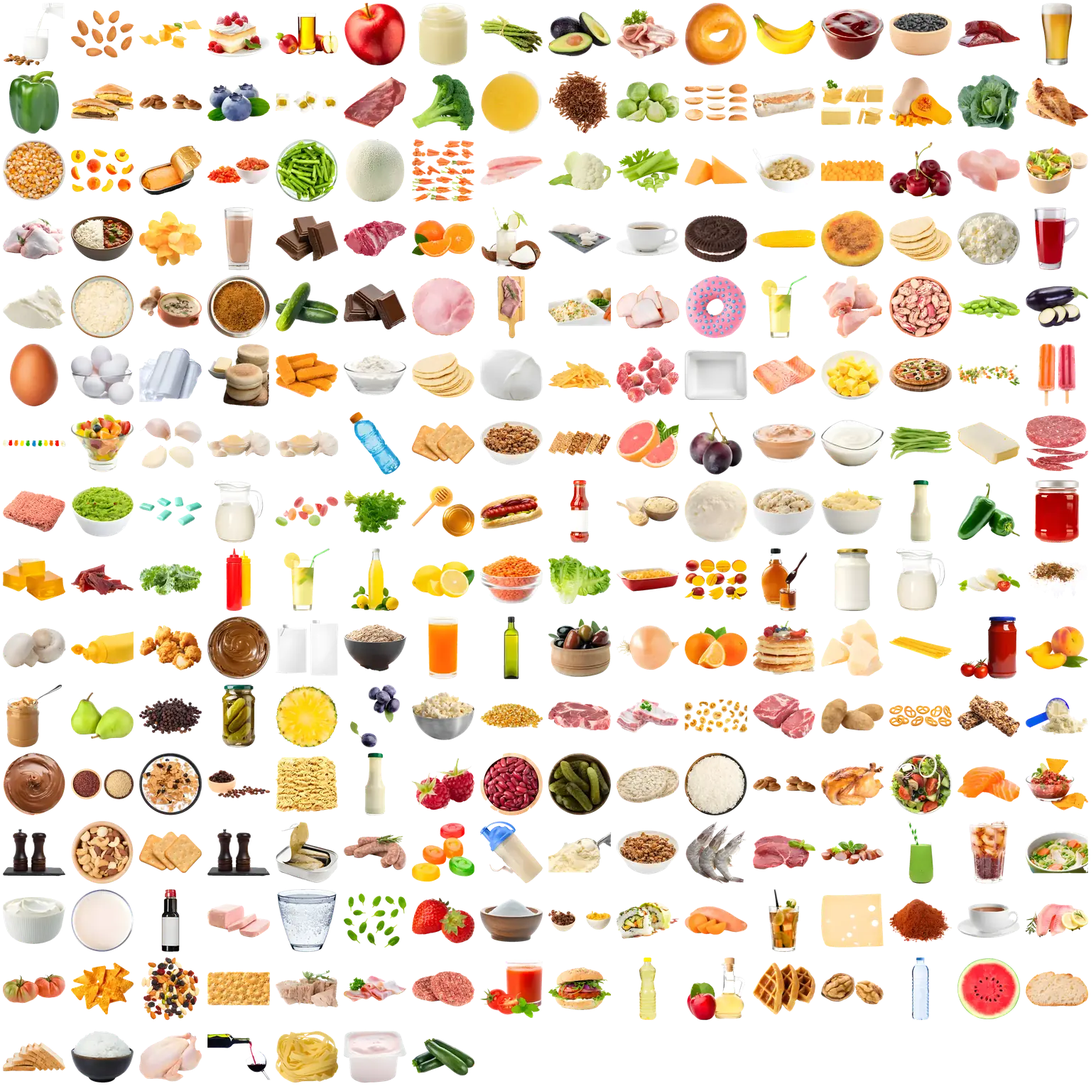
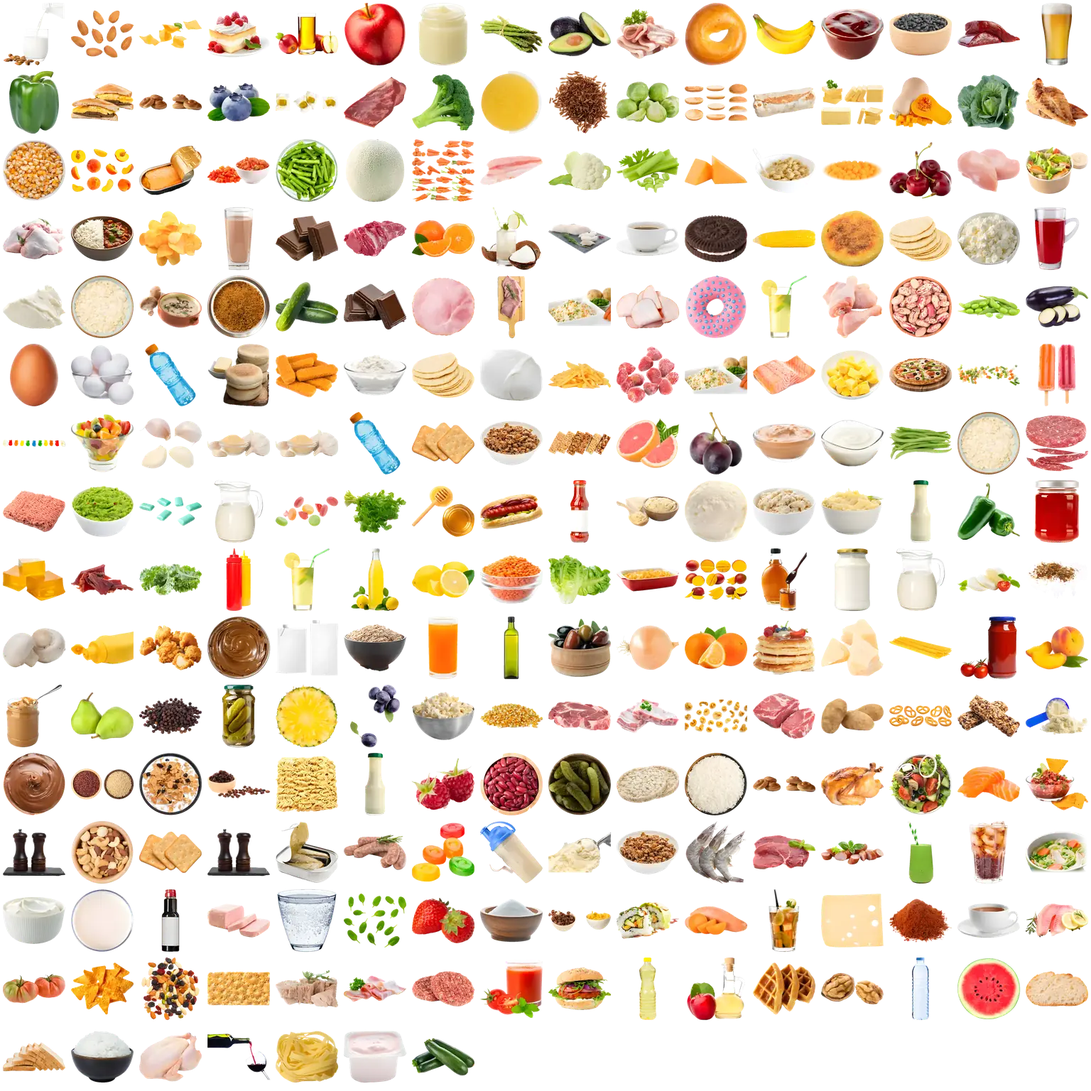
Pictures: soften the clipped soup bowl and cheese-puff strip; better grits, frozen dinner, energy drink
Mrs. Dash now shares the seasoning picture, so salty Creole seasoning offers it as the swap.

UNGATED (Codex review gate suspended)

Claude-Session: https://claude.ai/code/session_019am7j4huQfKjt5Ju6YVUKz

diff --git a/index.html b/index.html
@@ -805,7 +805,7 @@ const EMOJI_CHOICES = ["🍎","🍌","🍊","🍓","🫐","🍇","🍉","🍑","
 function foodEmoji(f){ return f.emoji || EMOJI[f.id] || (AISLES[f.cat] || {}).emoji || "🛒"; }
 function aisleClass(cat){ return (AISLES[cat] || {}).cls || "a-pantry"; }
 // Built-in product photos (Adobe Stock, licensed) — food id -> tile key in img/
-const PHOTO = {"bananas":"bananas","apples":"apples","oranges":"oranges","clementines":"clementines","strawberries":"strawberries","blueberries":"blueberries","raspberries":"raspberries","grapes":"grapes","watermelon":"watermelon","cantaloupe":"cantaloupe","peaches":"peaches","pears":"pears","plums":"plums","cherries":"cherries","mango":"mango","pineapple":"pineapple","grapefruit":"grapefruit","avocado":"avocado","tomatoes":"tomatoes","potatoes":"potatoes","sweetpot":"sweetpot","butternut":"butternut","onions":"onions","garlic":"garlic","carrots":"carrots","celery":"celery","broccoli":"broccoli","frozenbroc":"broccoli","cauliflower":"cauliflower","cabbage":"cabbage","brussels":"brussels","spinach":"spinach","kale":"kale","lettuce":"lettuce","cucumber":"cucumber","bellpep":"bellpep","jalapeno":"jalapeno","greenbeans":"greenbeans","zucchini":"zucchini","eggplant":"eggplant","mushrooms":"mushrooms","corn":"corn","asparagus":"asparagus","lemons":"lemons","herbs":"herbs","fruittray":"fruittray","saladkit":"saladkit","chickenbreast":"chickenbreast","chickenthigh":"chickenthigh","drumsticks":"drumsticks","wholechicken":"wholechicken","groundturkey":"groundturkey","groundbeef90":"groundbeef","groundbeef80":"groundbeef","sirloin":"sirloin","chuckroast":"chuckroast","brisket":"brisket","porkchop":"porkchop","porktender":"porktender","porkribs":"porkribs","bacon":"bacon","turkeybacon":"turkeybacon","hotdogs":"hotdogs","sausage":"sausage","smokedsausage":"smokedsausage","salmon":"salmon","tilapia":"tilapia","cod":"cod","catfish":"catfish","shrimp":"shrimp","tuna":"tuna","tunans":"tuna","cannedsalmon":"cannedsalmon","sardines":"sardines","beefliver":"beefliver","eggs":"eggs","eggwhites":"eggwhites","milk2":"milk","milkwhole":"milk","milkskim":"milk","lactaid":"milk","almondmilk":"almondmilk","oatmilk":"oatmilk","soymilk":"soymilk","greekyogurt":"greekyogurt","yogurtflav":"yogurtflav","cottage":"cottage","cheddar":"cheddar","swiss":"swiss","mozz":"mozz","freshmozz":"freshmozz","parmesan":"parmesan","american":"american","creamcheese":"creamcheese","butter":"butter","butterus":"butter","sourcream":"sourcream","halfhalf":"halfhalf","icecream":"icecream","sherbet":"sherbet","fruitbars":"fruitbars","sfpops":"fruitbars","pudding":"pudding","jello":"jello","jellosf":"jello","whitebread":"whitebread","wheatbread":"wheatbread","lowsodbread":"wheatbread","flourtort":"flourtort","corntort":"corntort","buns":"buns","rolls":"rolls","biscuits":"biscuits","bagels":"bagels","engmuffin":"engmuffin","cornbread":"cornbread","oats":"oats","instantoat":"instantoat","granola":"granola","cheerios":"cheerios","shreddedwheat":"shreddedwheat","raisinbran":"raisinbran","sugarcereal":"sugarcereal","brownrice":"brownrice","whiterice":"whiterice","pasta":"pasta","wwpasta":"wwpasta","quinoa":"quinoa","grits":"grits","creamofwheat":"creamofwheat","saltines":"saltines","saltinesus":"saltines","triscuit":"triscuit","ricecakes":"ricecakes","pancakemix":"pancakemix","flour":"flour","cannedbeans":"beans","beansns":"beans","refried":"refried","drybeans":"drybeans","lentils":"lentils","cannedveg":"cannedveg","cannedvegns":"cannedveg","cannedcorn":"cannedcorn","cannedtom":"cannedtom","cannedtomns":"cannedtom","pastasauce":"pastasauce","pastasaucens":"pastasauce","cannedfruit":"cannedfruit","applesauce":"applesauce","raisins":"raisins","peanutbutter":"peanutbutter","pbunsalted":"peanutbutter","almonds":"almonds","saltednuts":"saltednuts","walnuts":"walnuts","broth":"broth","brothls":"broth","soup":"soup","souphr":"soup","soupls":"soup","creamsoup":"creamsoup","ramen":"ramen","macncheese":"macncheese","ricemix":"ricemix","instantpotato":"instantpotato","chili":"chili","cannedchicken":"cannedchicken","spam":"spam","gravy":"gravy","oliveoil":"oliveoil","vegoil":"vegoil","honey":"honey","maplesyrup":"maplesyrup","sugar":"sugar","jam":"jam","proteinpowder":"proteinpowder","frozenveg":"frozenveg","frozenvegsauce":"frozenveg","frozenberries":"frozenberries","frozenfruit":"frozenfruit","frozendinner":"frozendinner","frozendinnerlite":"frozendinner","frozenpizza":"frozenpizza","nuggets":"nuggets","fishsticks":"fishsticks","frozenfish":"frozenfish","burritos":"burritos","waffles":"waffles","fries":"fries","edamame":"edamame","turkeyburger":"turkeyburger","veggieburger":"veggieburger","bfastsandwich":"bfastsandwich","water":"water","sparklingwater":"sparklingwater","clubsoda":"sparklingwater","soda":"soda","dietsoda":"soda","oj":"oj","applejuice":"applejuice","cranjuice":"cranjuice","v8":"v8","v8ls":"v8","coffee":"coffee","tea":"tea","herbaltea":"tea","sweettea":"sweettea","lemonade":"lemonade","drinkmix":"drinkmix","gatorade":"gatorade","gatoradezero":"gatorade","pedialyte":"gatorade","coconutwater":"coconutwater","smoothie":"smoothie","chocmilk":"chocmilk","ensure":"shake","premierprotein":"shake","glucerna":"shake","nepro":"shake","energydrink":"energydrink","beer":"beer","wine":"wine","chips":"chips","chipsus":"chips","tortillachips":"tortillachips","pretzels":"pretzels","pretzelsus":"pretzels","popcornmw":"popcorn","popcornkernels":"popcornkernels","cheesepuffs":"cheesepuffs","porkrinds":"porkrinds","jerky":"jerky","trailmix":"trailmix","granolabar":"granolabar","proteinbar":"proteinbar","cookies":"cookies","grahams":"grahams","donuts":"donuts","angelfood":"angelfood","chocolatebar":"chocolatebar","darkchoc":"darkchoc","nutella":"nutella","fruitsnacks":"fruitsnacks","hardcandy":"hardcandy","sfcandy":"sfcandy","gum":"gum","rotisserie":"rotisserie","deliturkey":"deliturkey","deliturkeyns":"deliturkey","deliham":"deliham","deliroastbeef":"deliroastbeef","chickensalad":"chickensalad","delisalad":"delisalad","hummus":"hummus","guac":"guac","sushi":"sushi","salt":"salt","saltsub":"saltsub","mrsdash":"mrsdash","garlicpowder":"garlicpowder","pepper":"pepper","garlicsalt":"garlicsalt","creole":"creole","creolens":"creole","tacoseasoning":"tacoseasoning","tacoseasoningsf":"tacoseasoning","bouillon":"bouillon","bouillonsf":"bouillon","vinegar":"vinegar","lemonjuice":"lemonjuice","hotsauce":"hotsauce","ketchup":"ketchup","ketchupns":"ketchup","mustard":"mustard","mayo":"mayo","relish":"relish","soysauce":"soysauce","soysaucels":"soysauce","salsa":"salsa","bbqsauce":"bbqsauce","ranch":"ranch","italiandressing":"italiandressing","pickles":"pickles","olives":"olives"};
+const PHOTO = {"bananas":"bananas","apples":"apples","oranges":"oranges","clementines":"clementines","strawberries":"strawberries","blueberries":"blueberries","raspberries":"raspberries","grapes":"grapes","watermelon":"watermelon","cantaloupe":"cantaloupe","peaches":"peaches","pears":"pears","plums":"plums","cherries":"cherries","mango":"mango","pineapple":"pineapple","grapefruit":"grapefruit","avocado":"avocado","tomatoes":"tomatoes","potatoes":"potatoes","sweetpot":"sweetpot","butternut":"butternut","onions":"onions","garlic":"garlic","carrots":"carrots","celery":"celery","broccoli":"broccoli","frozenbroc":"broccoli","cauliflower":"cauliflower","cabbage":"cabbage","brussels":"brussels","spinach":"spinach","kale":"kale","lettuce":"lettuce","cucumber":"cucumber","bellpep":"bellpep","jalapeno":"jalapeno","greenbeans":"greenbeans","zucchini":"zucchini","eggplant":"eggplant","mushrooms":"mushrooms","corn":"corn","asparagus":"asparagus","lemons":"lemons","herbs":"herbs","fruittray":"fruittray","saladkit":"saladkit","chickenbreast":"chickenbreast","chickenthigh":"chickenthigh","drumsticks":"drumsticks","wholechicken":"wholechicken","groundturkey":"groundturkey","groundbeef90":"groundbeef","groundbeef80":"groundbeef","sirloin":"sirloin","chuckroast":"chuckroast","brisket":"brisket","porkchop":"porkchop","porktender":"porktender","porkribs":"porkribs","bacon":"bacon","turkeybacon":"turkeybacon","hotdogs":"hotdogs","sausage":"sausage","smokedsausage":"smokedsausage","salmon":"salmon","tilapia":"tilapia","cod":"cod","catfish":"catfish","shrimp":"shrimp","tuna":"tuna","tunans":"tuna","cannedsalmon":"cannedsalmon","sardines":"sardines","beefliver":"beefliver","eggs":"eggs","eggwhites":"eggwhites","milk2":"milk","milkwhole":"milk","milkskim":"milk","lactaid":"milk","almondmilk":"almondmilk","oatmilk":"oatmilk","soymilk":"soymilk","greekyogurt":"greekyogurt","yogurtflav":"yogurtflav","cottage":"cottage","cheddar":"cheddar","swiss":"swiss","mozz":"mozz","freshmozz":"freshmozz","parmesan":"parmesan","american":"american","creamcheese":"creamcheese","butter":"butter","butterus":"butter","sourcream":"sourcream","halfhalf":"halfhalf","icecream":"icecream","sherbet":"sherbet","fruitbars":"fruitbars","sfpops":"fruitbars","pudding":"pudding","jello":"jello","jellosf":"jello","whitebread":"whitebread","wheatbread":"wheatbread","lowsodbread":"wheatbread","flourtort":"flourtort","corntort":"corntort","buns":"buns","rolls":"rolls","biscuits":"biscuits","bagels":"bagels","engmuffin":"engmuffin","cornbread":"cornbread","oats":"oats","instantoat":"instantoat","granola":"granola","cheerios":"cheerios","shreddedwheat":"shreddedwheat","raisinbran":"raisinbran","sugarcereal":"sugarcereal","brownrice":"brownrice","whiterice":"whiterice","pasta":"pasta","wwpasta":"wwpasta","quinoa":"quinoa","grits":"grits","creamofwheat":"creamofwheat","saltines":"saltines","saltinesus":"saltines","triscuit":"triscuit","ricecakes":"ricecakes","pancakemix":"pancakemix","flour":"flour","cannedbeans":"beans","beansns":"beans","refried":"refried","drybeans":"drybeans","lentils":"lentils","cannedveg":"cannedveg","cannedvegns":"cannedveg","cannedcorn":"cannedcorn","cannedtom":"cannedtom","cannedtomns":"cannedtom","pastasauce":"pastasauce","pastasaucens":"pastasauce","cannedfruit":"cannedfruit","applesauce":"applesauce","raisins":"raisins","peanutbutter":"peanutbutter","pbunsalted":"peanutbutter","almonds":"almonds","saltednuts":"saltednuts","walnuts":"walnuts","broth":"broth","brothls":"broth","soup":"soup","souphr":"soup","soupls":"soup","creamsoup":"creamsoup","ramen":"ramen","macncheese":"macncheese","ricemix":"ricemix","instantpotato":"instantpotato","chili":"chili","cannedchicken":"cannedchicken","spam":"spam","gravy":"gravy","oliveoil":"oliveoil","vegoil":"vegoil","honey":"honey","maplesyrup":"maplesyrup","sugar":"sugar","jam":"jam","proteinpowder":"proteinpowder","frozenveg":"frozenveg","frozenvegsauce":"frozenveg","frozenberries":"frozenberries","frozenfruit":"frozenfruit","frozendinner":"frozendinner","frozendinnerlite":"frozendinner","frozenpizza":"frozenpizza","nuggets":"nuggets","fishsticks":"fishsticks","frozenfish":"frozenfish","burritos":"burritos","waffles":"waffles","fries":"fries","edamame":"edamame","turkeyburger":"turkeyburger","veggieburger":"veggieburger","bfastsandwich":"bfastsandwich","water":"water","sparklingwater":"sparklingwater","clubsoda":"sparklingwater","soda":"soda","dietsoda":"soda","oj":"oj","applejuice":"applejuice","cranjuice":"cranjuice","v8":"v8","v8ls":"v8","coffee":"coffee","tea":"tea","herbaltea":"tea","sweettea":"sweettea","lemonade":"lemonade","drinkmix":"drinkmix","gatorade":"gatorade","gatoradezero":"gatorade","pedialyte":"gatorade","coconutwater":"coconutwater","smoothie":"smoothie","chocmilk":"chocmilk","ensure":"shake","premierprotein":"shake","glucerna":"shake","nepro":"shake","energydrink":"energydrink","beer":"beer","wine":"wine","chips":"chips","chipsus":"chips","tortillachips":"tortillachips","pretzels":"pretzels","pretzelsus":"pretzels","popcornmw":"popcorn","popcornkernels":"popcornkernels","cheesepuffs":"cheesepuffs","porkrinds":"porkrinds","jerky":"jerky","trailmix":"trailmix","granolabar":"granolabar","proteinbar":"proteinbar","cookies":"cookies","grahams":"grahams","donuts":"donuts","angelfood":"angelfood","chocolatebar":"chocolatebar","darkchoc":"darkchoc","nutella":"nutella","fruitsnacks":"fruitsnacks","hardcandy":"hardcandy","sfcandy":"sfcandy","gum":"gum","rotisserie":"rotisserie","deliturkey":"deliturkey","deliturkeyns":"deliturkey","deliham":"deliham","deliroastbeef":"deliroastbeef","chickensalad":"chickensalad","delisalad":"delisalad","hummus":"hummus","guac":"guac","sushi":"sushi","salt":"salt","saltsub":"saltsub","mrsdash":"creole","garlicpowder":"garlicpowder","pepper":"pepper","garlicsalt":"garlicsalt","creole":"creole","creolens":"creole","tacoseasoning":"tacoseasoning","tacoseasoningsf":"tacoseasoning","bouillon":"bouillon","bouillonsf":"bouillon","vinegar":"vinegar","lemonjuice":"lemonjuice","hotsauce":"hotsauce","ketchup":"ketchup","ketchupns":"ketchup","mustard":"mustard","mayo":"mayo","relish":"relish","soysauce":"soysauce","soysaucels":"soysauce","salsa":"salsa","bbqsauce":"bbqsauce","ranch":"ranch","italiandressing":"italiandressing","pickles":"pickles","olives":"olives"};
 const PHOTO_BASE = "img/";
 // Short aisle names: the aisle row, headlines and back links.
 const SHORT = {"Produce":"Produce","Meat & Seafood":"Meat","Dairy & Eggs":"Dairy","Bread & Grains":"Bread","Pantry & Canned":"Pantry","Frozen":"Frozen","Beverages":"Drinks","Snacks & Sweets":"Snacks","Deli & Prepared":"Deli","Condiments & Seasonings":"Condiments"};
@@ -895,7 +895,7 @@ function fitStickers(root){
 // Where each product sits inside its square cut-out, in 256ths of the image: [left, top, right, bottom].
 // Products are transparent cut-outs (Upscayl 4x + Apple Vision), 512 px each in img/, and all of them
 // together in img/atlas.webp: 96 px cells, 16 per row, in the order of ATLAS_KEYS.
-const PHOTO_BOX = {"almondmilk":[13,10,242,246],"almonds":[10,39,246,216],"american":[10,74,246,182],"angelfood":[10,40,246,215],"applejuice":[10,49,246,207],"apples":[13,10,242,246],"applesauce":[36,10,220,246],"asparagus":[10,56,246,200],"avocado":[10,44,246,211],"bacon":[10,34,246,222],"bagels":[12,10,244,246],"bananas":[10,52,246,204],"bbqsauce":[10,31,246,224],"beans":[10,46,246,209],"beefliver":[10,77,246,178],"beer":[70,10,185,246],"bellpep":[34,10,222,246],"bfastsandwich":[10,56,246,200],"biscuits":[10,98,246,158],"blueberries":[10,56,246,200],"bouillon":[10,85,246,170],"brisket":[10,32,246,224],"broccoli":[10,22,246,234],"broth":[14,10,242,246],"brownrice":[13,10,243,246],"brussels":[10,50,246,206],"buns":[10,58,246,198],"burritos":[10,71,246,185],"butter":[10,42,246,214],"butternut":[10,34,246,222],"cabbage":[10,24,246,232],"cannedchicken":[10,36,246,220],"cannedcorn":[10,14,246,242],"cannedfruit":[10,46,246,209],"cannedsalmon":[10,35,246,220],"cannedtom":[10,76,246,179],"cannedveg":[11,10,244,246],"cantaloupe":[18,10,238,246],"carrots":[10,11,246,245],"catfish":[10,72,246,183],"cauliflower":[10,54,246,202],"celery":[10,44,246,212],"cheddar":[10,70,246,185],"cheerios":[10,44,246,212],"cheesepuffs":[10,88,246,168],"cherries":[10,22,246,234],"chickenbreast":[10,46,246,210],"chickensalad":[10,39,246,216],"chickenthigh":[10,50,246,206],"chili":[10,43,246,213],"chips":[10,24,246,232],"chocmilk":[74,10,182,246],"chocolatebar":[10,42,246,214],"chuckroast":[10,60,246,196],"clementines":[10,58,246,198],"coconutwater":[15,10,240,246],"cod":[10,72,246,184],"coffee":[10,63,246,193],"cookies":[10,39,246,217],"corn":[10,94,246,162],"cornbread":[10,22,246,234],"corntort":[10,42,246,213],"cottage":[10,28,246,228],"cranjuice":[43,10,212,246],"creamcheese":[10,45,246,211],"creamofwheat":[10,10,246,246],"creamsoup":[10,49,246,207],"creole":[10,10,246,246],"cucumber":[10,34,246,221],"darkchoc":[10,41,246,214],"deliham":[10,18,246,237],"deliroastbeef":[76,10,180,246],"delisalad":[10,56,246,200],"deliturkey":[10,46,246,210],"donuts":[14,10,242,246],"drinkmix":[42,10,214,246],"drumsticks":[16,10,240,246],"drybeans":[10,12,246,244],"edamame":[10,82,246,174],"eggplant":[10,50,246,206],"eggs":[36,10,220,246],"eggwhites":[10,16,246,240],"energydrink":[10,26,246,230],"engmuffin":[13,10,243,246],"fishsticks":[10,44,246,212],"flour":[10,52,246,204],"flourtort":[10,42,246,213],"freshmozz":[10,30,246,225],"fries":[10,76,246,180],"frozenberries":[10,21,246,234],"frozendinner":[10,34,246,222],"frozenfish":[10,54,246,202],"frozenfruit":[10,34,246,221],"frozenpizza":[10,63,246,192],"frozenveg":[10,88,246,168],"fruitbars":[56,10,200,246],"fruitsnacks":[10,114,246,142],"fruittray":[10,20,246,236],"garlic":[10,33,246,223],"garlicpowder":[10,76,246,180],"garlicsalt":[10,76,246,180],"gatorade":[32,10,223,246],"grahams":[10,50,246,206],"granola":[10,45,246,210],"granolabar":[10,80,246,175],"grapefruit":[10,34,246,221],"grapes":[28,10,228,246],"gravy":[10,56,246,200],"greekyogurt":[10,40,246,216],"greenbeans":[10,66,246,190],"grits":[10,48,246,208],"groundbeef":[10,22,246,234],"groundturkey":[10,50,246,206],"guac":[10,32,246,224],"gum":[10,74,246,182],"halfhalf":[36,10,220,246],"hardcandy":[10,72,246,184],"herbs":[10,46,246,210],"honey":[10,32,246,224],"hotdogs":[10,62,246,194],"hotsauce":[92,10,164,246],"hummus":[10,71,246,184],"icecream":[10,12,246,244],"instantoat":[10,38,246,218],"instantpotato":[10,40,246,216],"italiandressing":[90,10,166,246],"jalapeno":[10,20,246,235],"jam":[43,10,212,246],"jello":[10,48,246,208],"jerky":[10,70,246,186],"kale":[10,67,246,188],"ketchup":[81,10,174,246],"lemonade":[42,10,214,246],"lemonjuice":[38,10,218,246],"lemons":[10,60,246,196],"lentils":[10,36,246,220],"lettuce":[10,36,246,220],"macncheese":[10,83,246,172],"mango":[10,52,246,204],"maplesyrup":[42,10,214,246],"mayo":[60,10,195,246],"milk":[36,10,220,246],"mozz":[10,82,246,174],"mrsdash":[10,56,246,200],"mushrooms":[10,54,246,202],"mustard":[10,66,246,189],"nuggets":[10,43,246,212],"nutella":[10,11,246,245],"oatmilk":[10,24,246,232],"oats":[10,39,246,217],"oj":[72,10,184,246],"oliveoil":[100,10,156,246],"olives":[10,18,246,238],"onions":[10,44,246,212],"oranges":[10,48,246,208],"pancakemix":[10,26,246,230],"parmesan":[10,20,246,236],"pasta":[10,84,246,172],"pastasauce":[22,10,234,246],"peaches":[10,46,246,210],"peanutbutter":[24,10,232,246],"pears":[10,39,246,217],"pepper":[10,60,246,196],"pickles":[65,10,190,246],"pineapple":[10,10,246,246],"plums":[34,10,222,246],"popcorn":[10,38,246,218],"popcornkernels":[10,80,246,176],"porkchop":[10,74,246,182],"porkribs":[10,64,246,192],"porkrinds":[10,66,246,190],"porktender":[10,42,246,214],"potatoes":[10,62,246,194],"pretzels":[10,88,246,168],"proteinbar":[10,48,246,208],"proteinpowder":[10,58,246,198],"pudding":[12,10,244,246],"quinoa":[10,70,246,186],"raisinbran":[10,11,246,244],"raisins":[10,74,246,182],"ramen":[10,22,246,233],"ranch":[90,10,166,246],"raspberries":[10,30,246,225],"refried":[10,10,246,246],"relish":[10,12,246,244],"ricecakes":[10,57,246,199],"ricemix":[10,10,246,246],"rolls":[10,98,246,158],"rotisserie":[10,46,246,209],"saladkit":[10,13,246,242],"salmon":[10,61,246,195],"salsa":[10,30,246,226],"salt":[10,38,246,217],"saltednuts":[12,10,244,246],"saltines":[10,50,246,206],"saltsub":[10,38,246,217],"sardines":[10,14,246,242],"sausage":[10,62,246,194],"sfcandy":[10,17,246,238],"shake":[10,12,246,244],"sherbet":[10,51,246,204],"shreddedwheat":[10,45,246,210],"shrimp":[14,10,242,246],"sirloin":[10,64,246,192],"smokedsausage":[10,82,246,174],"smoothie":[79,10,176,246],"soda":[55,10,201,246],"soup":[10,48,246,207],"sourcream":[10,40,246,216],"soymilk":[10,10,246,246],"soysauce":[94,10,162,246],"spam":[10,64,246,192],"sparklingwater":[16,10,239,246],"spinach":[10,26,246,230],"strawberries":[10,42,246,214],"sugar":[10,46,246,209],"sugarcereal":[10,87,246,168],"sushi":[10,58,246,197],"sweetpot":[10,74,246,182],"sweettea":[70,10,186,246],"swiss":[10,27,246,229],"tacoseasoning":[10,46,246,210],"tea":[10,63,246,193],"tilapia":[10,64,246,192],"tomatoes":[10,73,246,182],"tortillachips":[10,30,246,226],"trailmix":[19,10,237,246],"triscuit":[10,64,246,191],"tuna":[10,58,246,198],"turkeybacon":[10,78,246,178],"turkeyburger":[10,62,246,194],"v8":[10,18,246,238],"veggieburger":[10,48,246,208],"vegoil":[96,10,160,246],"vinegar":[18,10,237,246],"waffles":[10,30,246,226],"walnuts":[10,68,246,188],"water":[96,10,160,246],"watermelon":[10,13,246,243],"wheatbread":[10,62,246,194],"whitebread":[10,74,246,182],"whiterice":[10,31,246,225],"wholechicken":[10,36,246,220],"wine":[10,40,246,215],"wwpasta":[10,30,246,226],"yogurtflav":[10,30,246,226],"zucchini":[10,57,246,199]};
+const PHOTO_BOX = {"almondmilk":[13,10,242,246],"almonds":[10,39,246,216],"american":[10,74,246,182],"angelfood":[10,40,246,215],"applejuice":[10,49,246,207],"apples":[13,10,242,246],"applesauce":[36,10,220,246],"asparagus":[10,56,246,200],"avocado":[10,44,246,211],"bacon":[10,34,246,222],"bagels":[12,10,244,246],"bananas":[10,52,246,204],"bbqsauce":[10,31,246,224],"beans":[10,46,246,209],"beefliver":[10,77,246,178],"beer":[70,10,185,246],"bellpep":[34,10,222,246],"bfastsandwich":[10,56,246,200],"biscuits":[10,98,246,158],"blueberries":[10,56,246,200],"bouillon":[10,85,246,170],"brisket":[10,32,246,224],"broccoli":[10,22,246,234],"broth":[14,10,242,246],"brownrice":[13,10,243,246],"brussels":[10,50,246,206],"buns":[10,58,246,198],"burritos":[10,71,246,185],"butter":[10,42,246,214],"butternut":[10,34,246,222],"cabbage":[10,24,246,232],"cannedchicken":[10,36,246,220],"cannedcorn":[10,14,246,242],"cannedfruit":[10,46,246,209],"cannedsalmon":[10,35,246,220],"cannedtom":[10,76,246,179],"cannedveg":[11,10,244,246],"cantaloupe":[18,10,238,246],"carrots":[10,11,246,245],"catfish":[10,72,246,183],"cauliflower":[10,54,246,202],"celery":[10,44,246,212],"cheddar":[10,70,246,185],"cheerios":[10,44,246,212],"cheesepuffs":[16,89,239,167],"cherries":[10,22,246,234],"chickenbreast":[10,46,246,210],"chickensalad":[10,39,246,216],"chickenthigh":[10,50,246,206],"chili":[10,43,246,213],"chips":[10,24,246,232],"chocmilk":[74,10,182,246],"chocolatebar":[10,42,246,214],"chuckroast":[10,60,246,196],"clementines":[10,58,246,198],"coconutwater":[15,10,240,246],"cod":[10,72,246,184],"coffee":[10,63,246,193],"cookies":[10,39,246,217],"corn":[10,94,246,162],"cornbread":[10,22,246,234],"corntort":[10,42,246,213],"cottage":[10,28,246,228],"cranjuice":[43,10,212,246],"creamcheese":[10,45,246,211],"creamofwheat":[10,10,246,246],"creamsoup":[10,49,246,207],"creole":[10,10,246,246],"cucumber":[10,34,246,221],"darkchoc":[10,41,246,214],"deliham":[10,18,246,237],"deliroastbeef":[76,10,180,246],"delisalad":[10,56,246,200],"deliturkey":[10,46,246,210],"donuts":[14,10,242,246],"drinkmix":[42,10,214,246],"drumsticks":[16,10,240,246],"drybeans":[10,12,246,244],"edamame":[10,82,246,174],"eggplant":[10,50,246,206],"eggs":[36,10,220,246],"eggwhites":[10,16,246,240],"energydrink":[32,10,223,246],"engmuffin":[13,10,243,246],"fishsticks":[10,44,246,212],"flour":[10,52,246,204],"flourtort":[10,42,246,213],"freshmozz":[10,30,246,225],"fries":[10,76,246,180],"frozenberries":[10,21,246,234],"frozendinner":[10,55,246,200],"frozenfish":[10,54,246,202],"frozenfruit":[10,34,246,221],"frozenpizza":[10,63,246,192],"frozenveg":[10,88,246,168],"fruitbars":[56,10,200,246],"fruitsnacks":[10,114,246,142],"fruittray":[10,20,246,236],"garlic":[10,33,246,223],"garlicpowder":[10,76,246,180],"garlicsalt":[10,76,246,180],"gatorade":[32,10,223,246],"grahams":[10,50,246,206],"granola":[10,45,246,210],"granolabar":[10,80,246,175],"grapefruit":[10,34,246,221],"grapes":[28,10,228,246],"gravy":[10,56,246,200],"greekyogurt":[10,40,246,216],"greenbeans":[10,66,246,190],"grits":[10,10,246,246],"groundbeef":[10,22,246,234],"groundturkey":[10,50,246,206],"guac":[10,32,246,224],"gum":[10,74,246,182],"halfhalf":[36,10,220,246],"hardcandy":[10,72,246,184],"herbs":[10,46,246,210],"honey":[10,32,246,224],"hotdogs":[10,62,246,194],"hotsauce":[92,10,164,246],"hummus":[10,71,246,184],"icecream":[10,12,246,244],"instantoat":[10,38,246,218],"instantpotato":[10,40,246,216],"italiandressing":[90,10,166,246],"jalapeno":[10,20,246,235],"jam":[43,10,212,246],"jello":[10,48,246,208],"jerky":[10,70,246,186],"kale":[10,67,246,188],"ketchup":[81,10,174,246],"lemonade":[42,10,214,246],"lemonjuice":[38,10,218,246],"lemons":[10,60,246,196],"lentils":[10,36,246,220],"lettuce":[10,36,246,220],"macncheese":[10,83,246,172],"mango":[10,52,246,204],"maplesyrup":[42,10,214,246],"mayo":[60,10,195,246],"milk":[36,10,220,246],"mozz":[10,82,246,174],"mrsdash":[10,56,246,200],"mushrooms":[10,54,246,202],"mustard":[10,66,246,189],"nuggets":[10,43,246,212],"nutella":[10,11,246,245],"oatmilk":[10,24,246,232],"oats":[10,39,246,217],"oj":[72,10,184,246],"oliveoil":[100,10,156,246],"olives":[10,18,246,238],"onions":[10,44,246,212],"oranges":[10,48,246,208],"pancakemix":[10,26,246,230],"parmesan":[10,20,246,236],"pasta":[10,84,246,172],"pastasauce":[22,10,234,246],"peaches":[10,46,246,210],"peanutbutter":[24,10,232,246],"pears":[10,39,246,217],"pepper":[10,60,246,196],"pickles":[65,10,190,246],"pineapple":[10,10,246,246],"plums":[34,10,222,246],"popcorn":[10,38,246,218],"popcornkernels":[10,80,246,176],"porkchop":[10,74,246,182],"porkribs":[10,64,246,192],"porkrinds":[10,66,246,190],"porktender":[10,42,246,214],"potatoes":[10,62,246,194],"pretzels":[10,88,246,168],"proteinbar":[10,48,246,208],"proteinpowder":[10,58,246,198],"pudding":[12,10,244,246],"quinoa":[10,70,246,186],"raisinbran":[10,11,246,244],"raisins":[10,74,246,182],"ramen":[10,22,246,233],"ranch":[90,10,166,246],"raspberries":[10,30,246,225],"refried":[10,10,246,246],"relish":[10,12,246,244],"ricecakes":[10,57,246,199],"ricemix":[10,10,246,246],"rolls":[10,98,246,158],"rotisserie":[10,46,246,209],"saladkit":[10,13,246,242],"salmon":[10,61,246,195],"salsa":[10,30,246,226],"salt":[10,38,246,217],"saltednuts":[12,10,244,246],"saltines":[10,50,246,206],"saltsub":[10,38,246,217],"sardines":[10,14,246,242],"sausage":[10,62,246,194],"sfcandy":[10,17,246,238],"shake":[10,12,246,244],"sherbet":[10,51,246,204],"shreddedwheat":[10,45,246,210],"shrimp":[14,10,242,246],"sirloin":[10,64,246,192],"smokedsausage":[10,82,246,174],"smoothie":[79,10,176,246],"soda":[55,10,201,246],"soup":[10,48,237,202],"sourcream":[10,40,246,216],"soymilk":[10,10,246,246],"soysauce":[94,10,162,246],"spam":[10,64,246,192],"sparklingwater":[16,10,239,246],"spinach":[10,26,246,230],"strawberries":[10,42,246,214],"sugar":[10,46,246,209],"sugarcereal":[10,87,246,168],"sushi":[10,58,246,197],"sweetpot":[10,74,246,182],"sweettea":[70,10,186,246],"swiss":[10,27,246,229],"tacoseasoning":[10,46,246,210],"tea":[10,63,246,193],"tilapia":[10,64,246,192],"tomatoes":[10,73,246,182],"tortillachips":[10,30,246,226],"trailmix":[19,10,237,246],"triscuit":[10,64,246,191],"tuna":[10,58,246,198],"turkeybacon":[10,78,246,178],"turkeyburger":[10,62,246,194],"v8":[10,18,246,238],"veggieburger":[10,48,246,208],"vegoil":[96,10,160,246],"vinegar":[18,10,237,246],"waffles":[10,30,246,226],"walnuts":[10,68,246,188],"water":[96,10,160,246],"watermelon":[10,13,246,243],"wheatbread":[10,62,246,194],"whitebread":[10,74,246,182],"whiterice":[10,31,246,225],"wholechicken":[10,36,246,220],"wine":[10,40,246,215],"wwpasta":[10,30,246,226],"yogurtflav":[10,30,246,226],"zucchini":[10,57,246,199]};
 const ATLAS_KEYS = Object.keys(PHOTO_BOX);
 const ATLAS_AT = Object.fromEntries(ATLAS_KEYS.map((k, i) => [k, i]));
 // ===== Objects, and how they move =====
